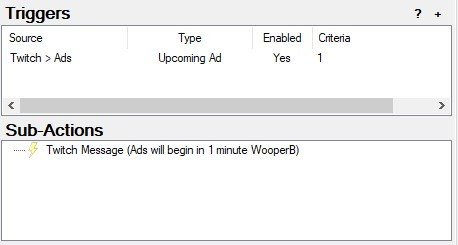
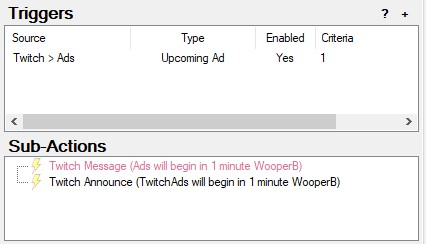
Update streamerbot doc

diff --git a/docs/streamerbot.md b/docs/streamerbot.md
@@ -2,9 +2,28 @@
 
 <a href="https://streamer.bot">Streamerbot Website</a>
 
-WooperBot_2123
+Actions for chat bot **WooperBot_2123**
+
+<!-- TOC start (generated with https://github.com/derlin/bitdowntoc) -->
+
+- [Actions](#actions)
+  - [Auto Shoutout](#auto-shoutout)
+  - [Bot is mean or nice to you](#bot-is-mean-or-nice-to-you)
+  - [Discord Live Notification](#discord-live-notification)
+  - [Mod List](#mod-list)
+  - [Ads Manager](#ads-manager)
+  - [Music Manager](#music-manager)
+    - [Get Spotify Playlist](#get-spotify-playlist)
+  - [Timeout Point Reward](#timeout-point-reward)
+  - [Text-to-Speech Reward](#text-to-speech-reward)
+
+<!-- TOC end -->
+
+<!-- TOC --><a name="actions"></a>
 
 ## Actions
+
+<!-- TOC --><a name="auto-shoutout"></a>
 
 ### Auto Shoutout
 
@@ -12,17 +31,23 @@ Automatically shoutouts whoever raided.
 
 ![Auto-shoutout](../img/auto-shout.jpg "Auto Shoutout")
 
+<!-- TOC --><a name="bot-is-mean-or-nice-to-you"></a>
+
 ### Bot is mean or nice to you
 
 Channel point reward on Twitch to give a random response to the redeemer.
 
 ![Bot-Response](../img/bot-response.jpg "Bot Response")
 
+<!-- TOC --><a name="discord-live-notification"></a>
+
 ### Discord Live Notification
 
 Posts in discord when stream goes live with the title of the Twitch stream.
 
 ![Live-Notif](../img/live-notif.jpg "Live Notification")
+
+<!-- TOC --><a name="mod-list"></a>
 
 ### Mod List
 
@@ -64,9 +89,11 @@ public class CPHInline
 }
 ```
 
+<!-- TOC --><a name="ads-manager"></a>
+
 ### Ads Manager
 
-Sends message in Twitch chat to notify of upcoming ads, when ads are running, and when ads are finished.
+Sends announcement in Twitch chat to notify of upcoming ads, when ads are running, and when ads are finished.
 
 ![Ads-1](../img/ads-1.jpg "Ads 1")
 
@@ -76,11 +103,13 @@ Sends message in Twitch chat to notify of upcoming ads, when ads are running, an
 
 ![Ads-4](../img/ads-4.jpg "Ads 4")
 
+<!-- TOC --><a name="music-manager"></a>
+
 ### Music Manager
 
 Sends the current song title as a message in Twitch chat.
 
-(there's a problem with it repeating itself)
+(there's a problem with it repeating itself if used with Nightbot App)
 
 ![Music-1](../img/music-1.jpg "Music 1")
 
@@ -90,9 +119,50 @@ Sends the current song title as a message in Twitch chat.
 
 ![Music-4](../img/music-4.jpg "Music 4")
 
+<!-- TOC --><a name="get-spotify-playlist"></a>
+
+#### Get Spotify Playlist
+
+Sends the current Spotify playlist as a message in Twitch chat.
+
+![Playlist](../img/playlist-1.jpg "Playlist")
+
+```
+using System;
+using System.IO;
+using System.Text;
+using System.Collections.Generic;
+
+public class CPHInline
+{
+	public bool Execute()
+	{
+		// Get playlist url and name from Tuna
+        string[] lines = File.ReadAllLines(@"path to playlist-url.txt");
+        string[] lines2 = File.ReadAllLines(@"path to playlist-name.txt");
+        string line = lines[0];
+        string name = lines2[0];
+
+        // Extract ID after "spotify:playlist:"
+        string prefix = "spotify:playlist:";
+        string id = line.StartsWith(prefix) ? line.Substring(prefix.Length) : "Invalid URL format";
+
+		// Convert to url
+        string url = "https://open.spotify.com/playlist/" + id;
+
+        CPH.SendMessage("You're listening to the sweet sounds of " + name + ": " + url + " WooperB", true);
+		return true;
+	}
+}
+```
+
+<!-- TOC --><a name="timeout-point-reward"></a>
+
 ### Timeout Point Reward
 
 [From streamerbot extensions](https://extensions.streamer.bot/t/timeout-user-reward/155)
+
+<!-- TOC --><a name="text-to-speech-reward"></a>
 
 ### Text-to-Speech Reward
 
